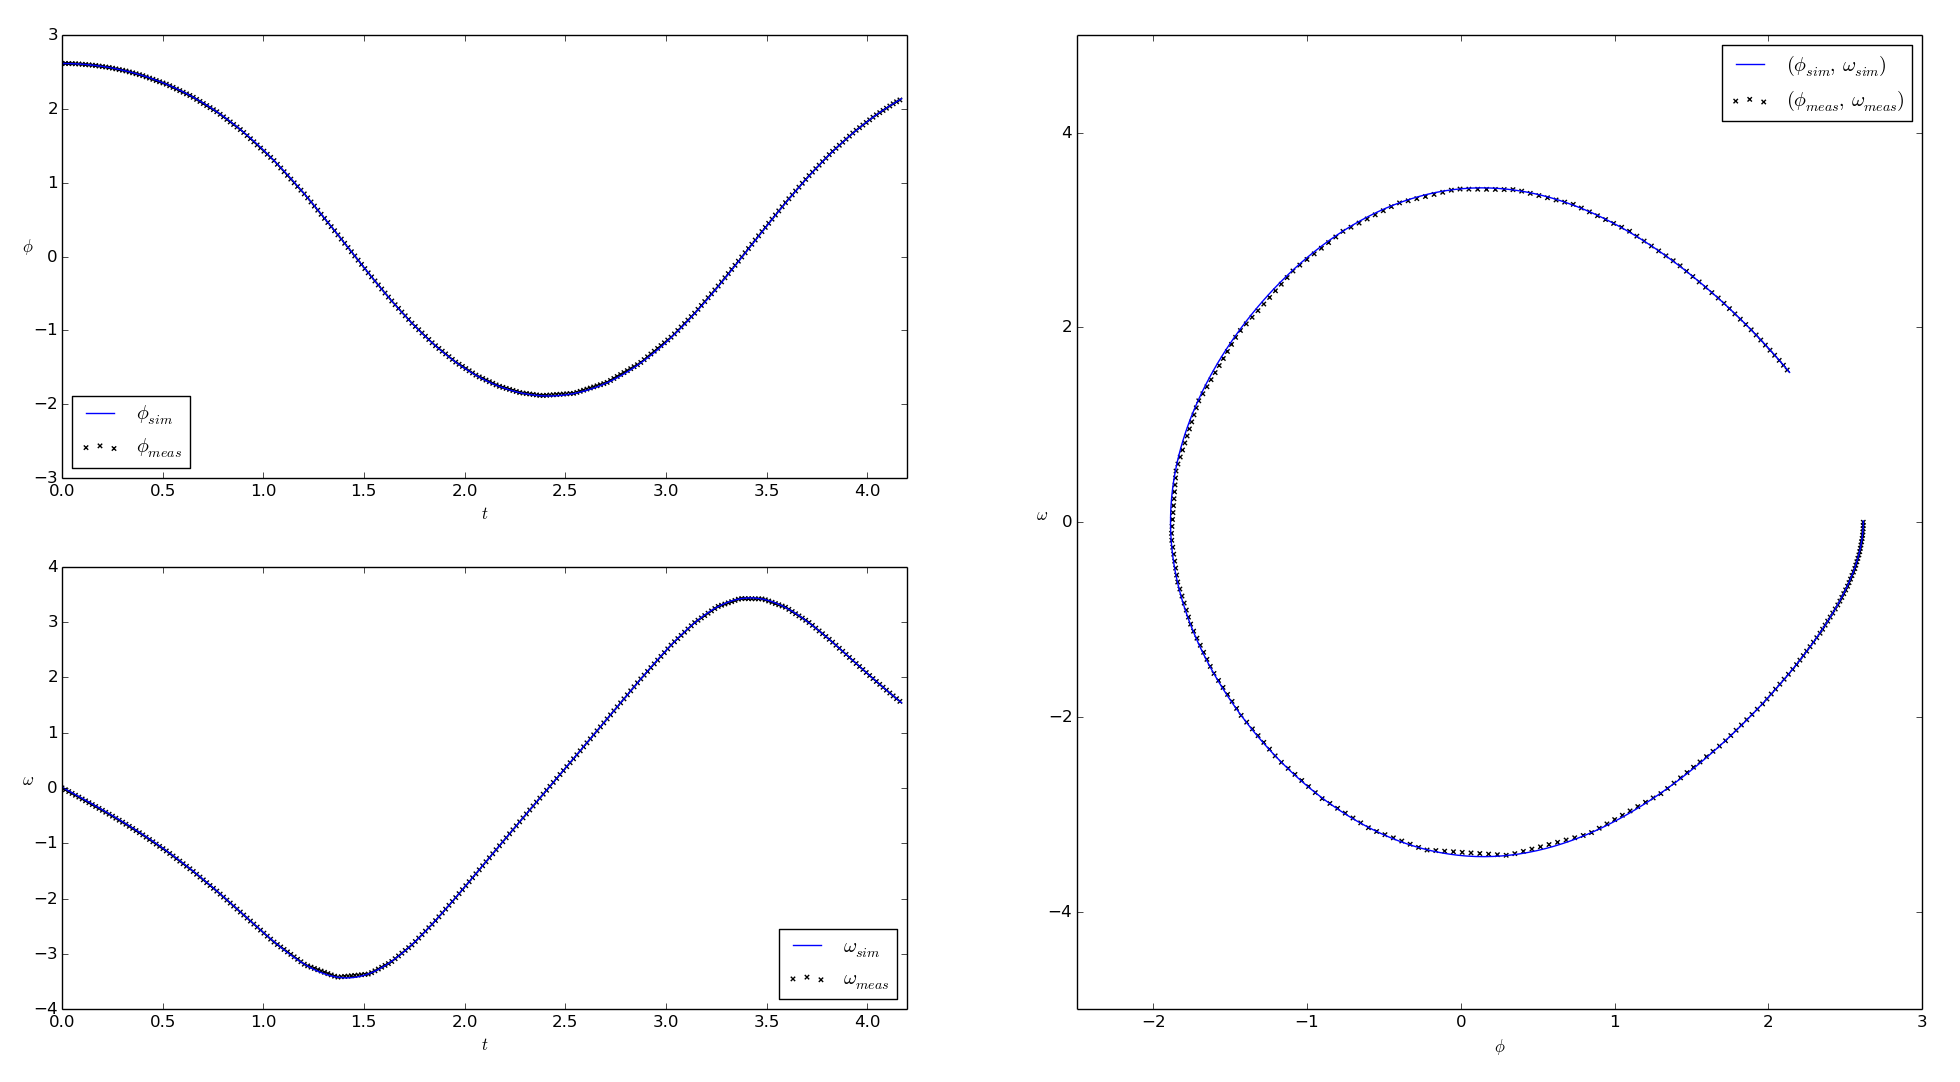
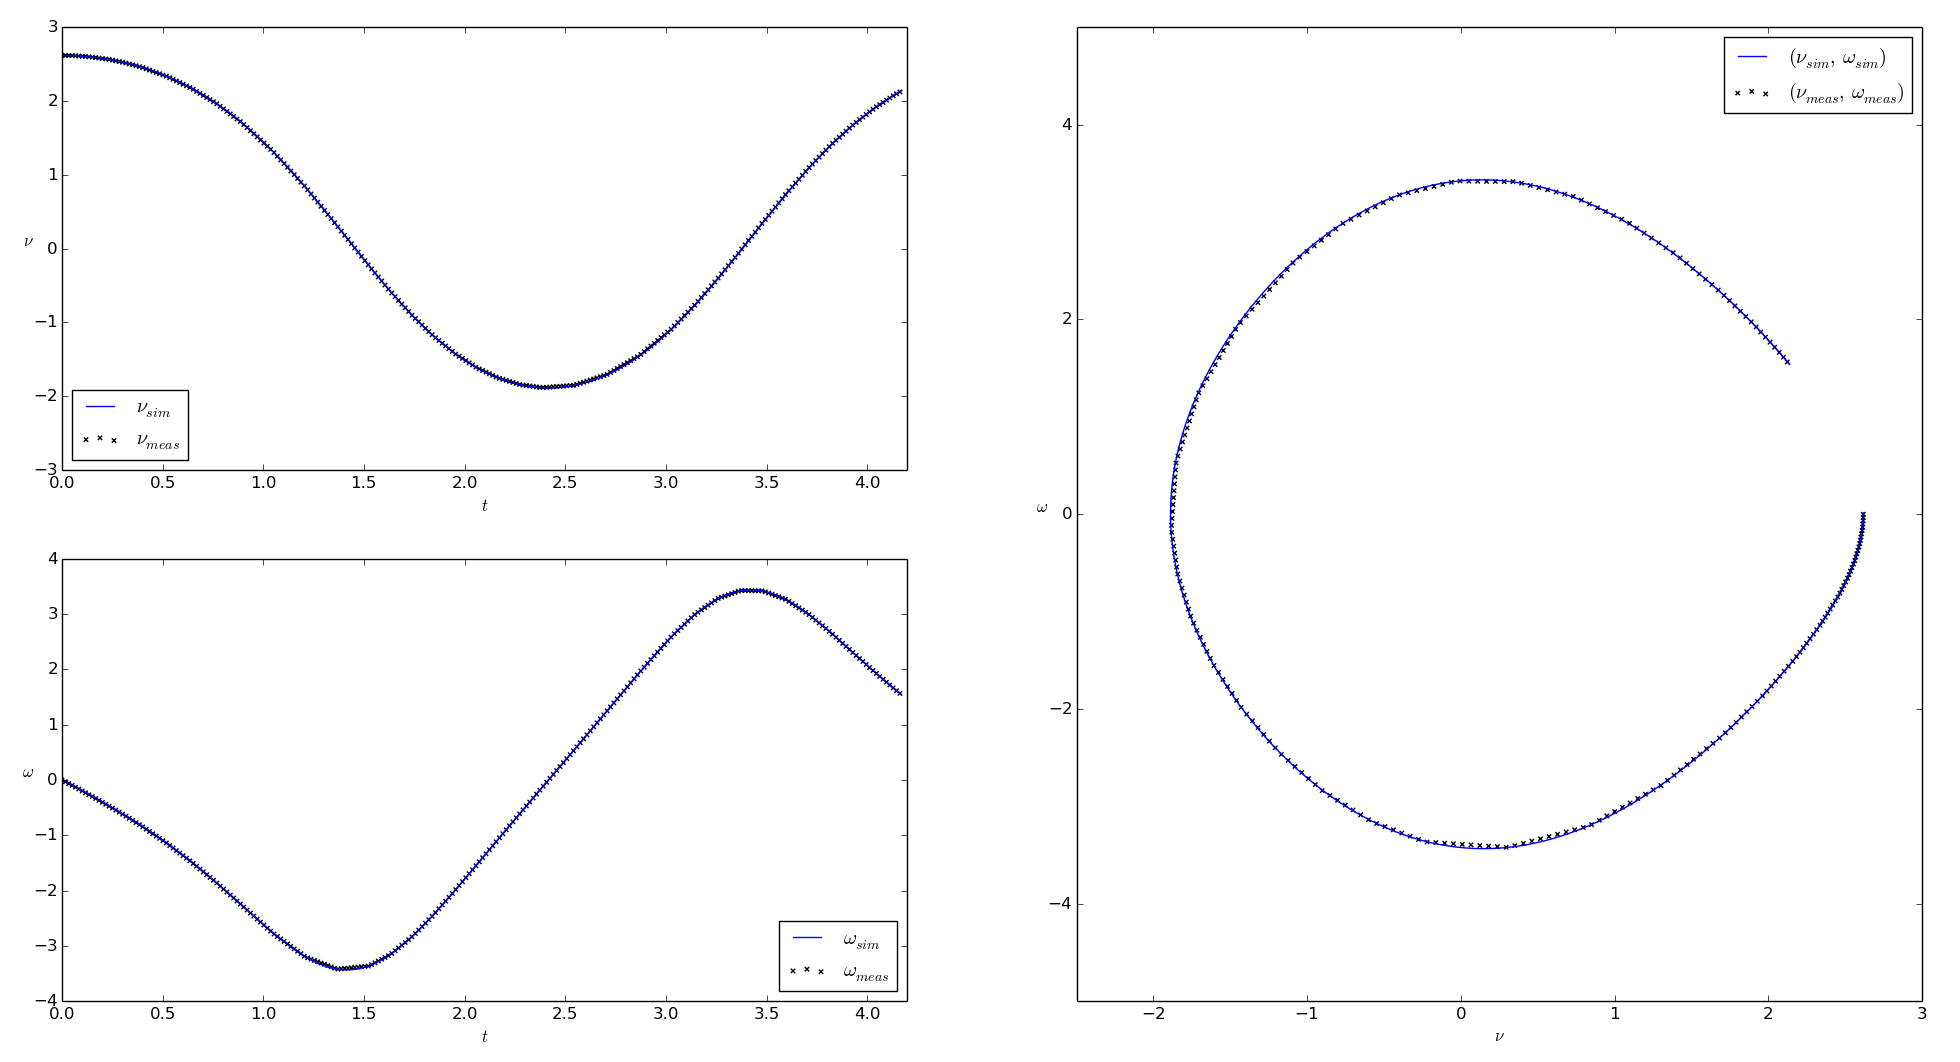
changes in examples neccessary due to double use of variable phi

diff --git a/examples/pendulum.py b/examples/pendulum.py
@@ -35,10 +35,10 @@ odesys.show_system_information(showEquations = True)
 
 data = pl.loadtxt('data_pendulum.txt')
 tu = data[:500, 0]
-phimeas = data[:500, 1]
+numeas = data[:500, 1]
 wmeas = data[:500, 2]
 N = tu.size
-yN = pl.array([phimeas,wmeas])
+yN = pl.array([numeas,wmeas])
 uN = [psi] * (N-1)
 
 # Definition of the weightings for each of the measurements.
@@ -47,17 +47,17 @@ uN = [psi] * (N-1)
 # speed and rotational angle have i.i.d. noise, thus the measurement have
 # identic standard deviations that can be calculated.
 
-sigmaphi = pl.std(phimeas, ddof=1)
+sigmanu = pl.std(numeas, ddof=1)
 sigmaw = pl.std(wmeas, ddof=1)
 
 # The weightings for the measurements errors given to PECas are calculated
 # from the standard deviations of the measurements, so that the least squares
 # estimator ist the maximum likelihood estimator for the estimation problem.
 
-wphi = 1.0 / (pl.ones(tu.size)*sigmaphi**2)
+wnu = 1.0 / (pl.ones(tu.size)*sigmanu**2)
 ww = 1.0 / (pl.ones(tu.size)*sigmaw**2)
 
-wv = pl.array([wphi, ww])
+wv = pl.array([wnu, ww])
 
 # Run parameter estimation and assure that the results is correct
 
@@ -75,20 +75,20 @@ lsqpe.show_results()
 lsqpe.compute_covariance_matrix()
 lsqpe.show_results()
 
-lsqpe.run_simulation([phimeas[0], wmeas[0]])
-phisim = lsqpe.Xsim[0,:].T
+lsqpe.run_simulation([numeas[0], wmeas[0]])
+nusim = lsqpe.Xsim[0,:].T
 wsim = lsqpe.Xhat[1,:].T
 
 pl.close("all")
 
 pl.figure()
 pl.subplot2grid((2, 2), (0, 0))
-pl.scatter(tu[::2], phimeas[::2], \
-    s = 10.0, color = 'k', marker = "x", label = "$\phi_{meas}$")
-pl.plot(tu, phisim, label = "$\phi_{sim}$")
+pl.scatter(tu[::2], numeas[::2], \
+    s = 10.0, color = 'k', marker = "x", label = r"$\nu_{meas}$")
+pl.plot(tu, nusim, label = r"$\nu_{sim}$")
 
 pl.xlabel("$t$")
-pl.ylabel("$\phi$", rotation = 0)
+pl.ylabel(r"$\nu$", rotation = 0)
 pl.xlim(0.0, 4.2)
 
 pl.legend(loc = "lower left")
@@ -105,12 +105,12 @@ pl.xlim(0.0, 4.2)
 pl.legend(loc = "lower right")
 
 pl.subplot2grid((2, 2), (0, 1), rowspan = 2)
-pl.scatter(phimeas[::2], wmeas[::2], \
+pl.scatter(numeas[::2], wmeas[::2], \
     s = 10.0, color = 'k', marker = "x", \
-    label = "$(\phi_{meas},\,\omega_{meas})$")
-pl.plot(phisim, wsim, label = "$(\phi_{sim},\,\omega_{sim})$")
+    label = r"$(\nu_{meas},\,\omega_{meas})$")
+pl.plot(nusim, wsim, label = r"$(\nu_{sim},\,\omega_{sim})$")
 
-pl.xlabel("$\phi$")
+pl.xlabel(r"$\nu$")
 pl.ylabel("$\omega$", rotation = 0)
 pl.xlim(-2.5, 3.0)
 pl.ylim(-5.0, 5.0)

diff --git a/doc/examples.rst b/doc/examples.rst
@@ -29,7 +29,7 @@ and we can measure the full state, i. e.
 
 .. math::
 
-    y = x.
+    \phi = x.
 
 The values resulting from the parameter estimation are 
 
@@ -56,21 +56,21 @@ The aim of the application ``pendulum.py`` is to estimate the spring constant :m
 .. math::
 
     \begin{aligned}
-        \dot{\phi} &= \omega \\
-        \dot{\omega} &= \frac{k}{m L^2} (\psi - \phi) - \frac{g}{L} * \sin(\phi)  \\
+        \dot{\nu} &= \omega \\
+        \dot{\omega} &= \frac{k}{m L^2} (\psi - \nu) - \frac{g}{L} * \sin(\nu)  \\
     \end{aligned}
 
 where :math:`m = 1.0`, :math:`L = 3.0` and :math:`g = 9.81`, the states :math:`x`, controls :math:`u` and parameters :math:`p` are defined as
 
 .. math::
 
-    x = \begin{pmatrix} {\phi} \\ {\omega} \end{pmatrix}, ~ u = \begin{pmatrix} {\psi} \end{pmatrix}, ~ p = \begin{pmatrix} {k} \end{pmatrix},
+    x = \begin{pmatrix} {\nu} \\ {\omega} \end{pmatrix}, ~ u = \begin{pmatrix} {\psi} \end{pmatrix}, ~ p = \begin{pmatrix} {k} \end{pmatrix},
 
 while the only control :math:`\psi` is the initial actuation angle of the pendulum, and therefor stays constant over time. Also, we can measure the full state, i. e. 
 
 .. math::
 
-    y = x.
+    \phi = x.
 
 The value resulting from the parameter estimation is
 
@@ -122,7 +122,7 @@ where the states :math:`x`, controls :math:`u` and parameters :math:`p` are defi
 
 .. math::
 
-    y = x.
+    \phi = x.
 
 *(Results will follow soon)*
 
